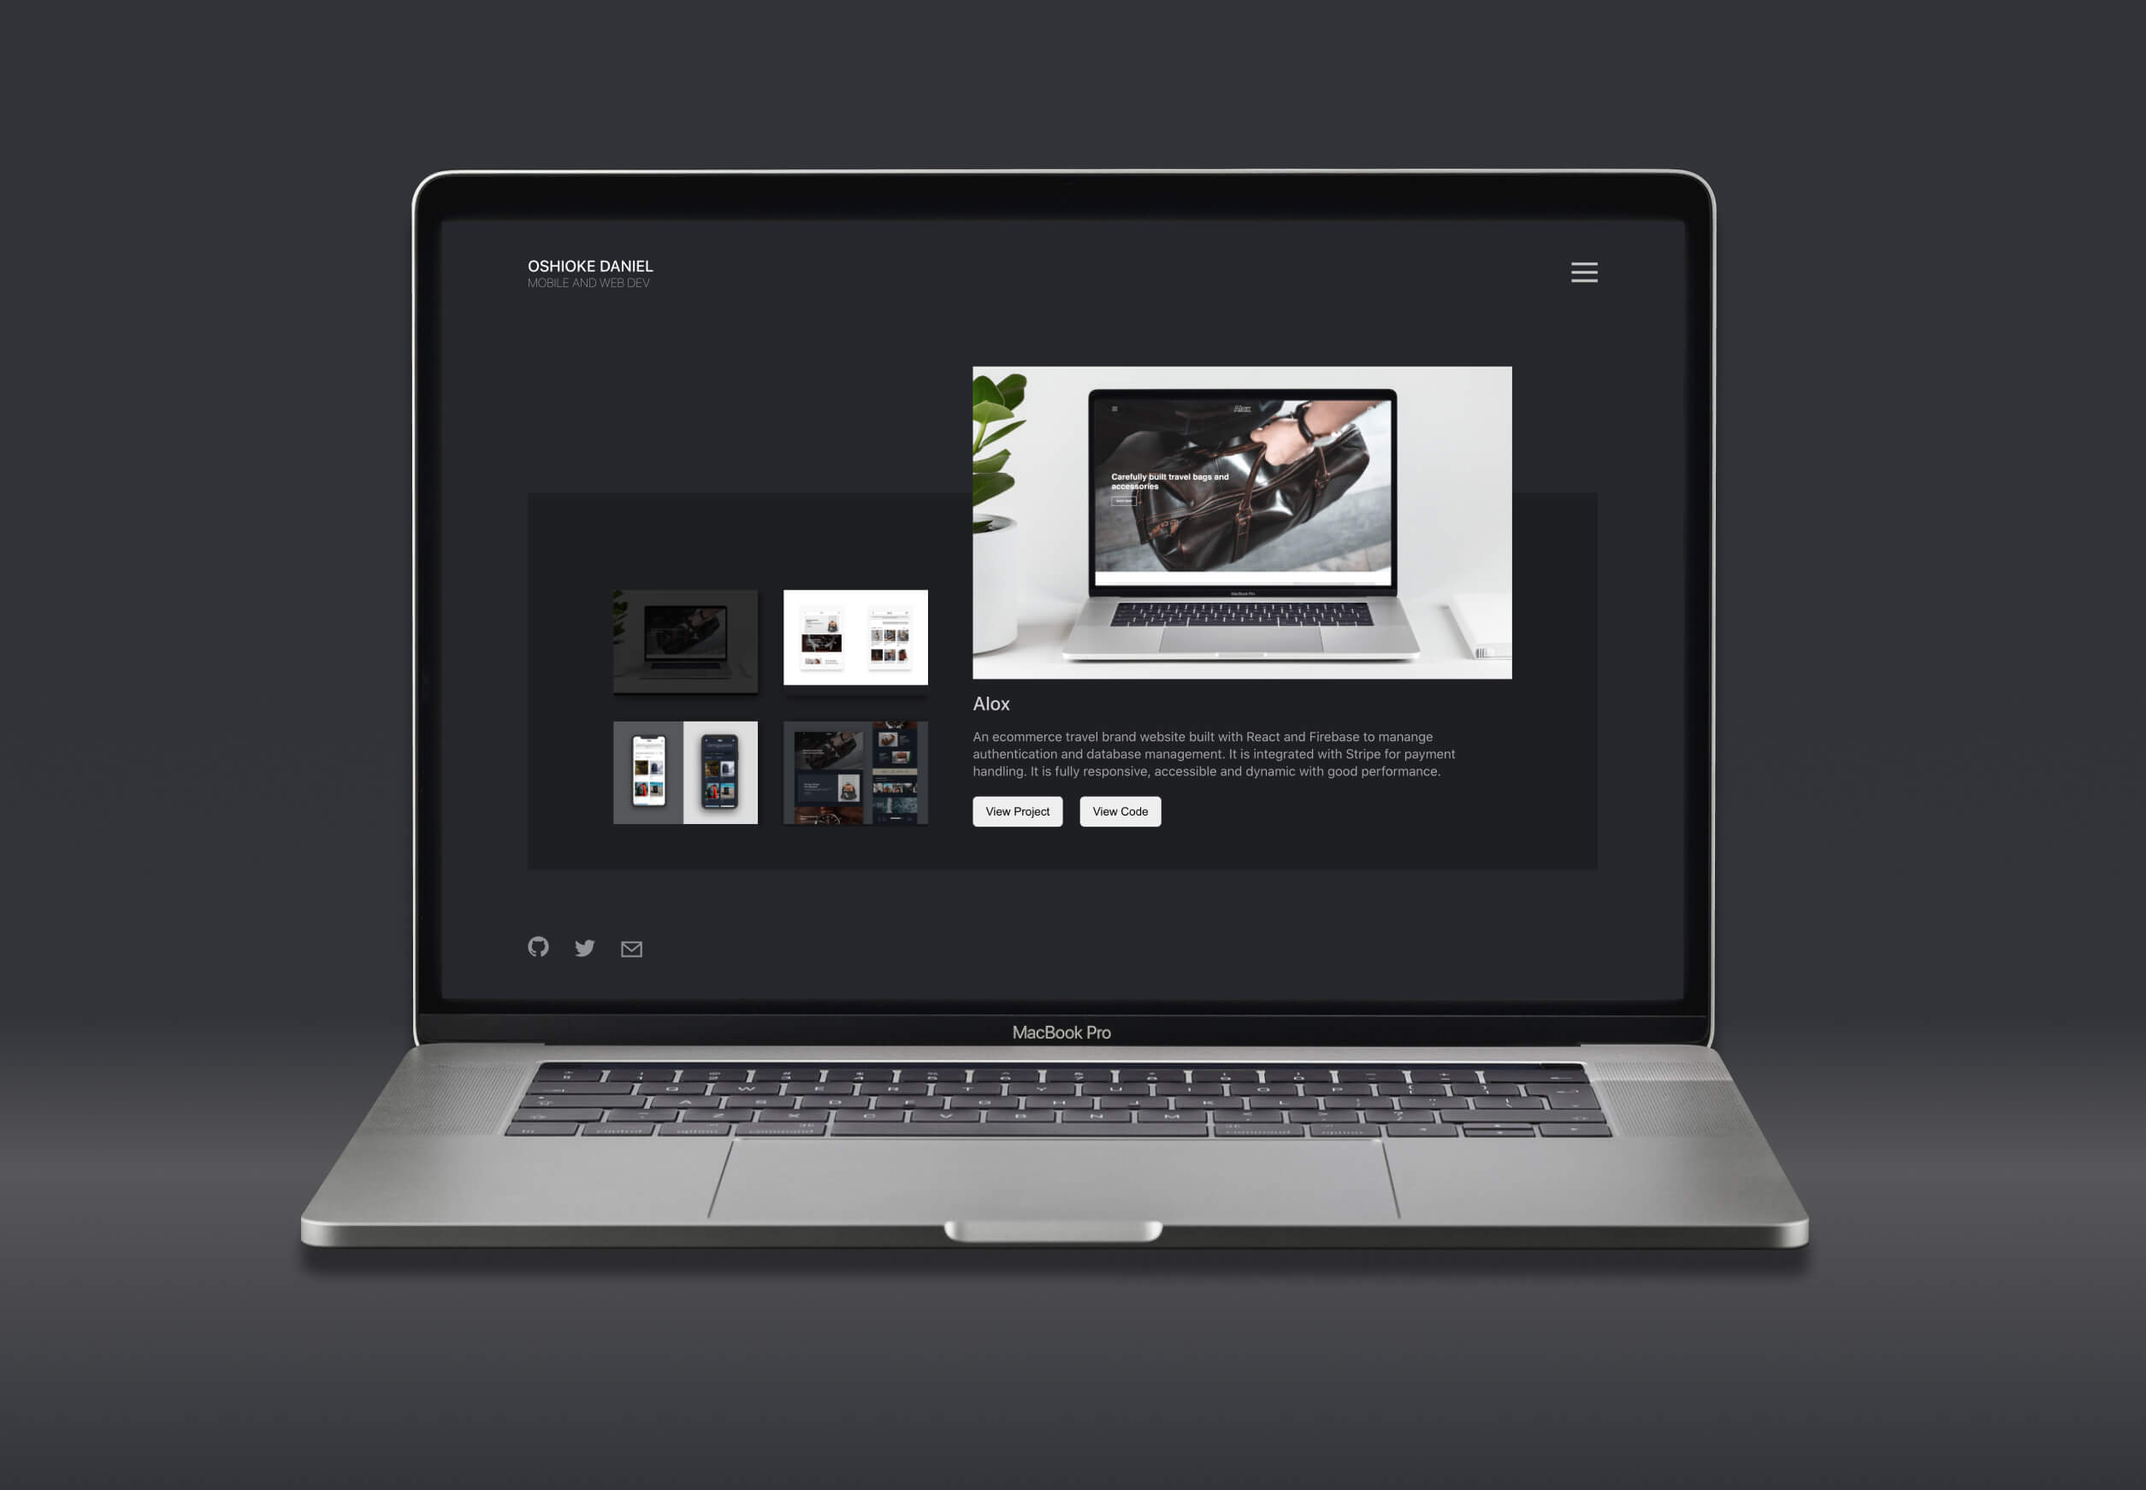
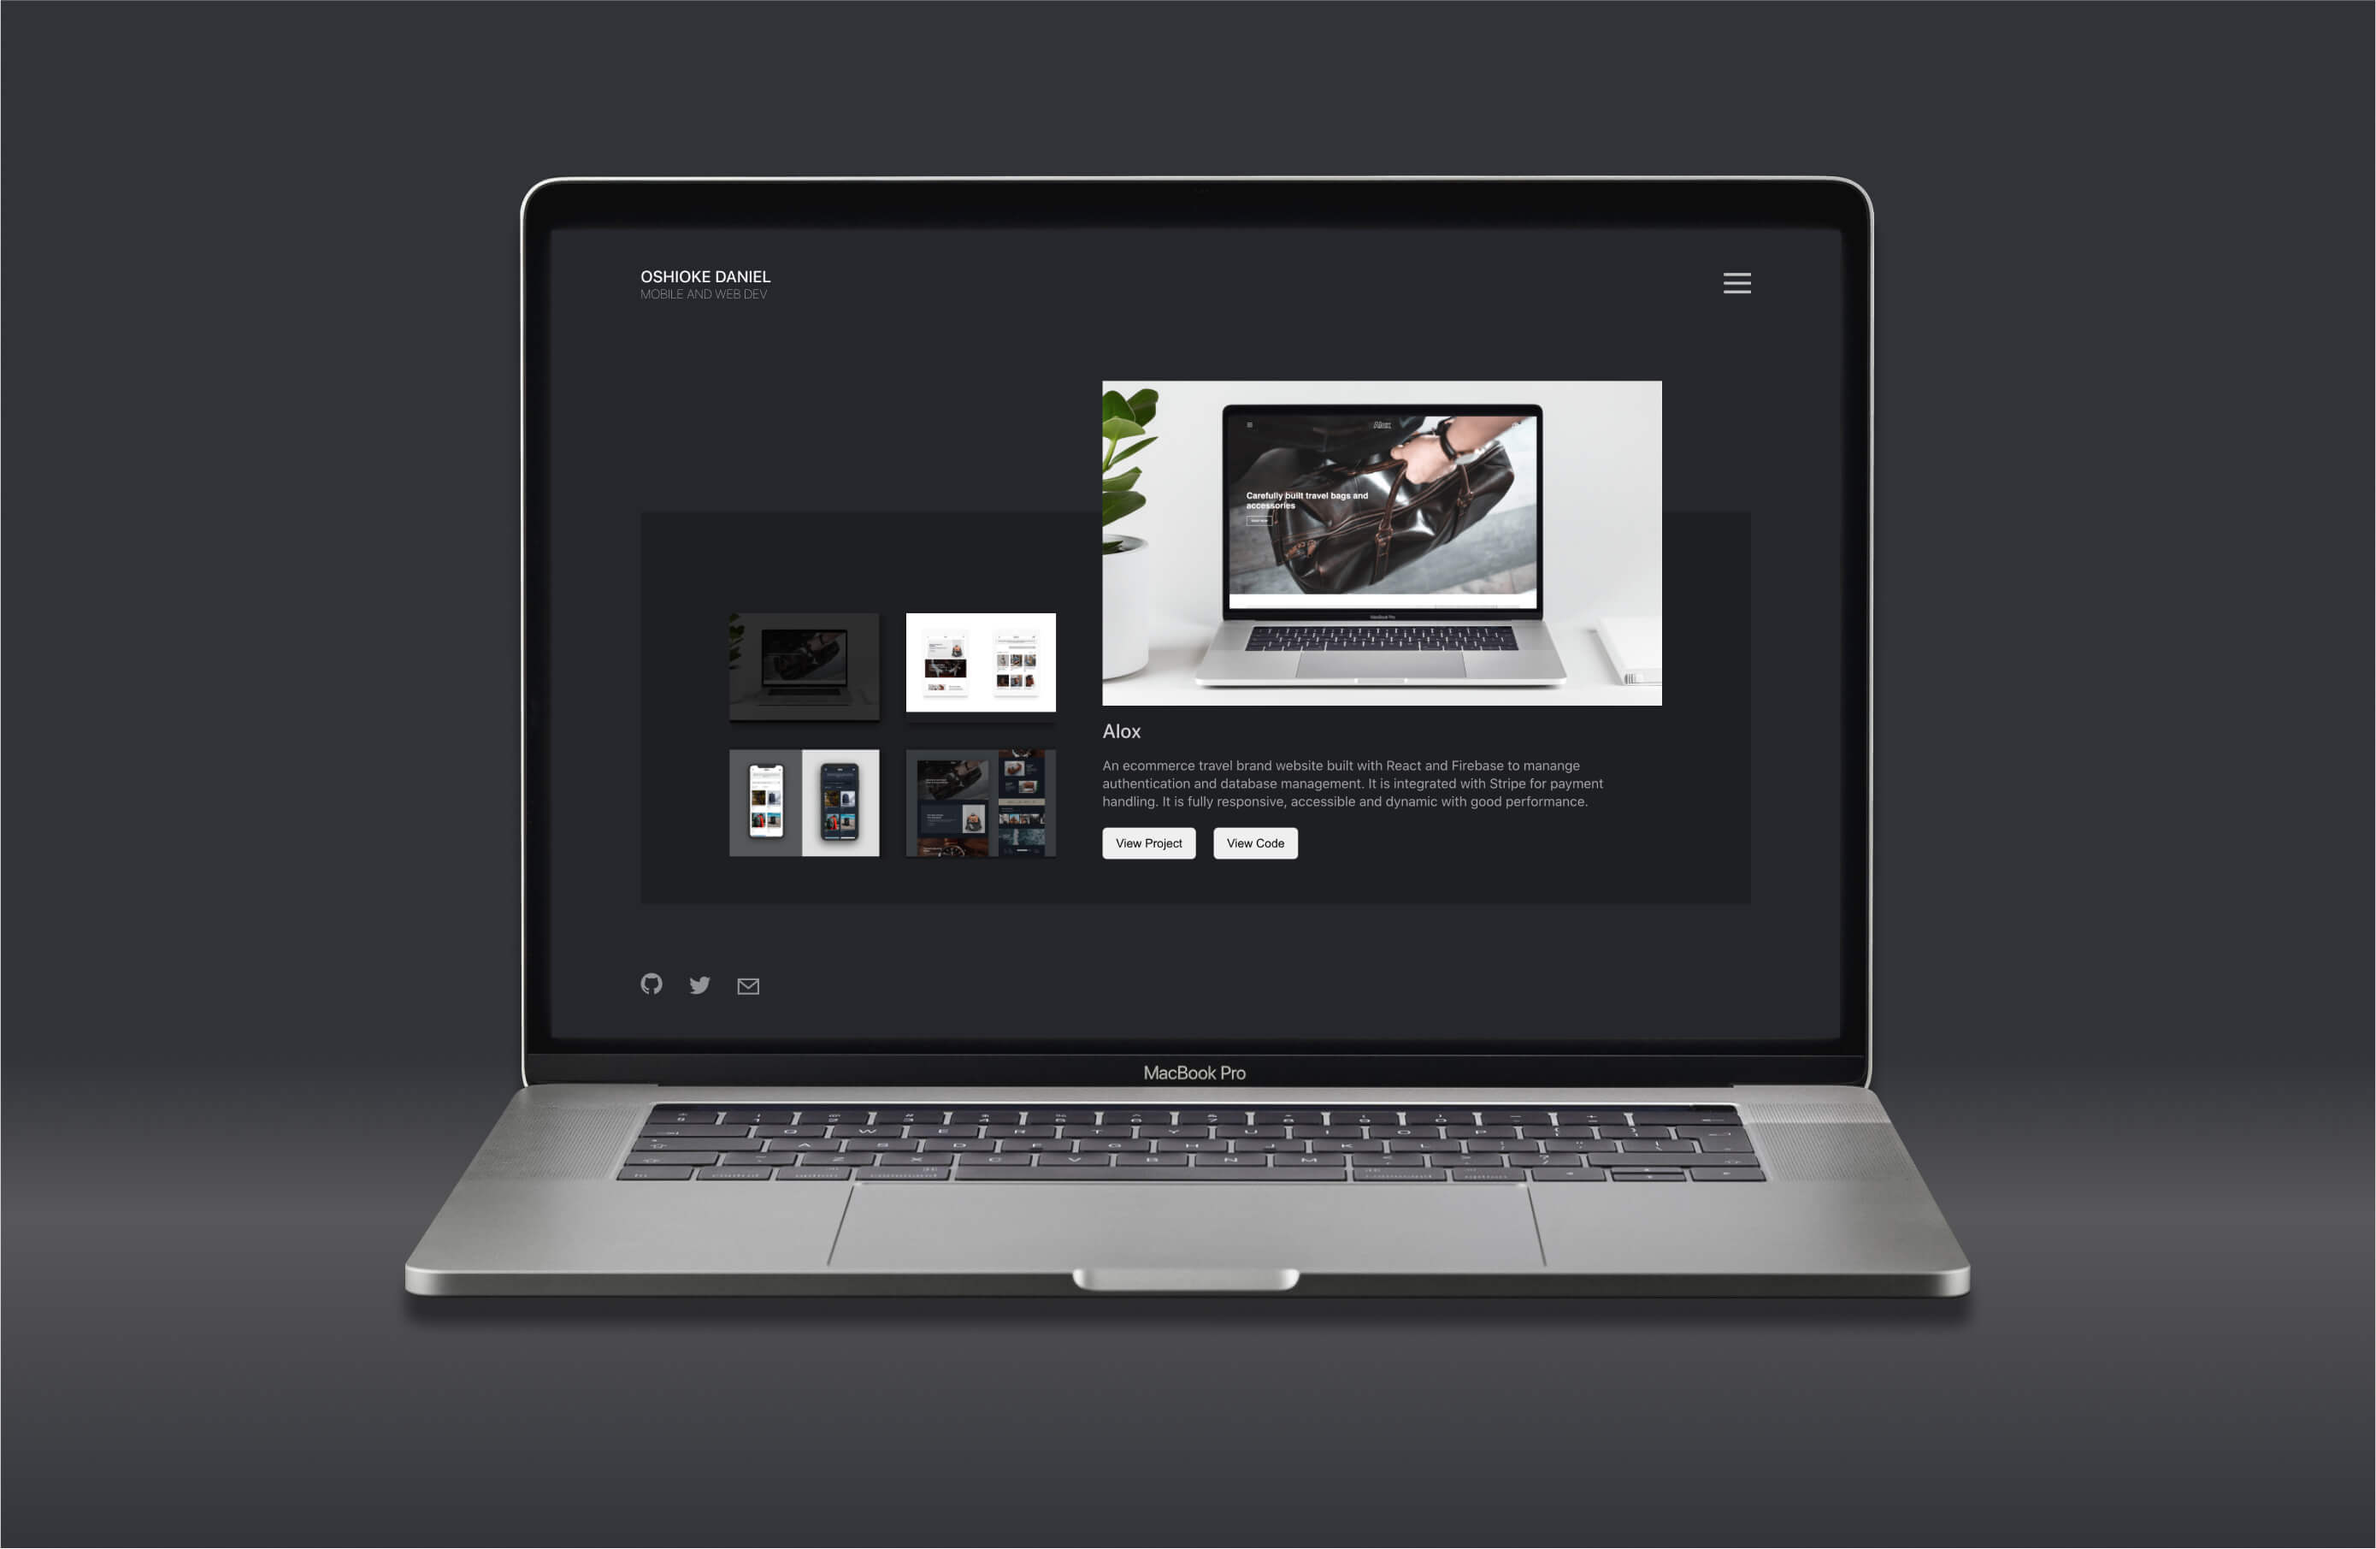
changed some images in portfolio card to make all uniform. Added linkedin to social links

diff --git a/src/pages/Homepage/Header/Header.jsx b/src/pages/Homepage/Header/Header.jsx
@@ -1,7 +1,7 @@
 import React, {useRef, useEffect} from 'react';
 import './Header.scss';
 import gsap from 'gsap';
-import { GithubIcon, TwitterIcon, MailIcon } from '../../../components/svgs';
+import { GithubIcon, TwitterIcon, MailIcon, LinkedinIcon } from '../../../components/svgs';
 
 const Header = props =>{
     const headerRef = useRef(null);
@@ -85,6 +85,9 @@ const Header = props =>{
                 </a>
                 <a href = 'https://twitter.com/DanielOshos' rel="noopener noreferrer" target = "_blank">
                     <TwitterIcon/>
+                </a>
+                <a href = 'https://www.linkedin.com/in/danieloshos' rel="noopener noreferrer" target = "_blank">
+                    <LinkedinIcon/>
                 </a>
                 <a id = 'mail-icon' href="mailto:danieloshos3@gmail.com">
                     <MailIcon/>

diff --git a/src/components/svgs.jsx b/src/components/svgs.jsx
@@ -21,6 +21,10 @@ export const IGIcon = props =>(
 </svg>
 )
 
+export const LinkedinIcon = props =>(
+    <svg xmlns="http://www.w3.org/2000/svg" width="24" height="24" viewBox="0 0 24 24"><path d="M4.98 3.5c0 1.381-1.11 2.5-2.48 2.5s-2.48-1.119-2.48-2.5c0-1.38 1.11-2.5 2.48-2.5s2.48 1.12 2.48 2.5zm.02 4.5h-5v16h5v-16zm7.982 0h-4.968v16h4.969v-8.399c0-4.67 6.029-5.052 6.029 0v8.399h4.988v-10.131c0-7.88-8.922-7.593-11.018-3.714v-2.155z"/></svg>
+)
+
 export const MailIcon = props =>(
     <svg width="24" height="18" viewBox="0 0 24 18" fill="none" xmlns="http://www.w3.org/2000/svg">
 <path d="M0 0V18H24V0H0ZM21.518 2L12 9.713L2.482 2H21.518ZM2 16V4.183L12 12.287L22 4.183V16H2Z" fill="white" fillOpacity="0.5"/>
@@ -37,3 +41,4 @@ export const HeartIcon = props =>(
 	c2.3-1.6,5.9-2.9,5.9-6.5C20,1.2,12.5,0.1,10,5.6z"></path> </svg>
 
 )
+

diff --git a/src/pages/Homepage/CaseStudySection/CaseStudiesSection.jsx b/src/pages/Homepage/CaseStudySection/CaseStudiesSection.jsx
@@ -72,8 +72,8 @@ const caseStudies = [
             Personal portfolio built with React and SCSS. Hosted on heroku. It is fully responsive, accessible and with great performance.
         `],
         images: [
-            require('../../../assests/images/Portfolio/portfolio1.jpg'),
             require('../../../assests/images/Portfolio/portfolio2.jpg'),
+            require('../../../assests/images/Portfolio/portfolio1.jpg'),
             require('../../../assests/images/Portfolio/portfolio3.jpg'),
             require('../../../assests/images/Portfolio/portfolio4.jpg'),
         ],

diff --git a/src/pages/Homepage/Header/Header.scss b/src/pages/Homepage/Header/Header.scss
@@ -139,6 +139,22 @@
         z-index: 11;
         overflow: hidden;
 
+        svg{
+            path{
+                fill: white;
+                fill-opacity: 0.5;
+                transition: all .7s;
+
+               
+            } 
+
+            &:hover{
+                path{
+                    fill-opacity: 1;
+                }
+            }
+        }
+
 
 
         a{
@@ -181,6 +197,10 @@
         .socials-links{
             margin-left: 5%;
             bottom: 3%;
+
+            a{
+                margin: 0 10px;
+            }
         }
     }
 }
